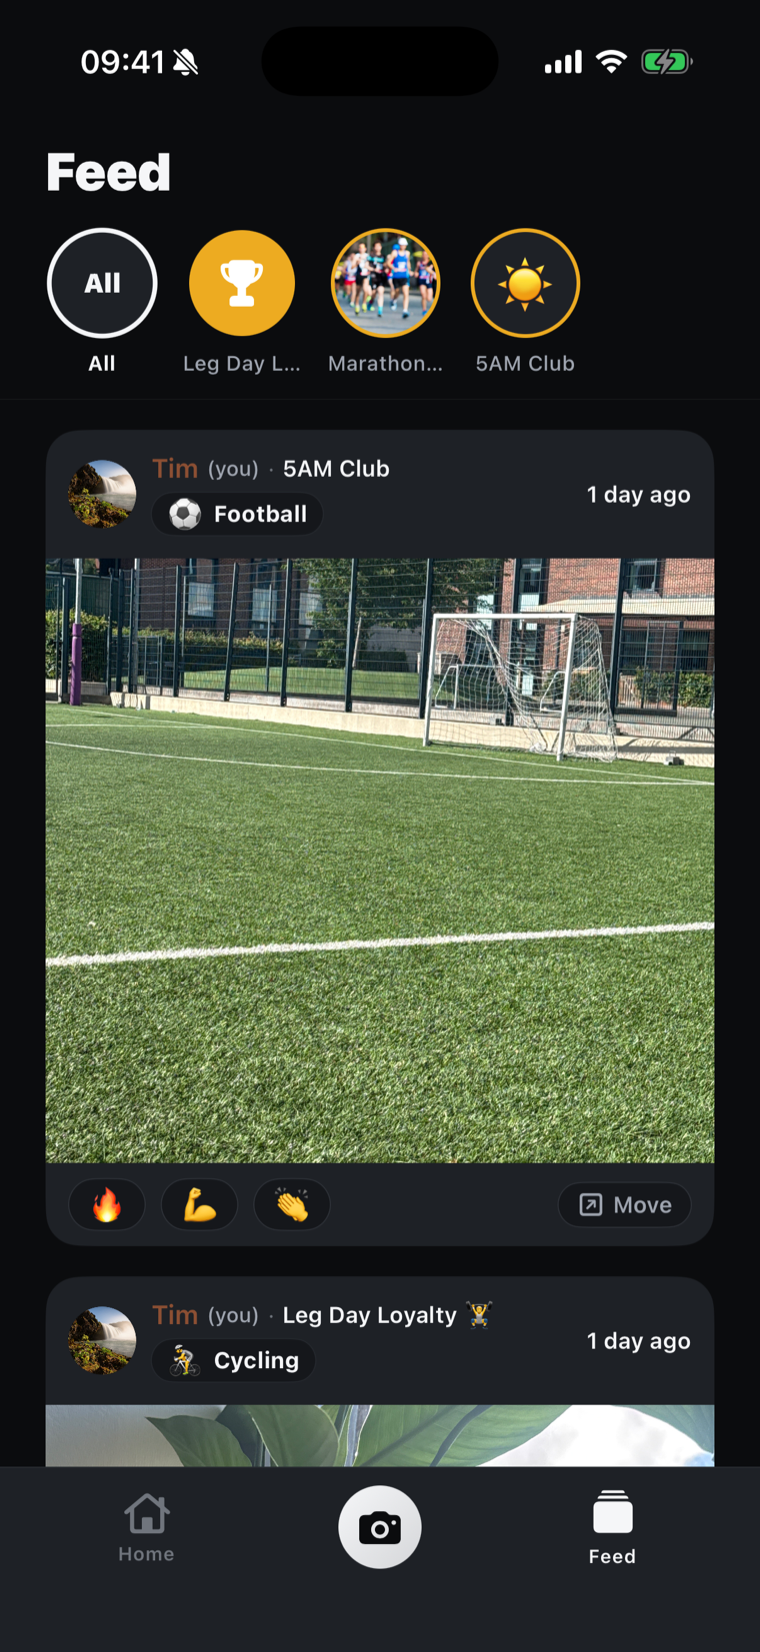
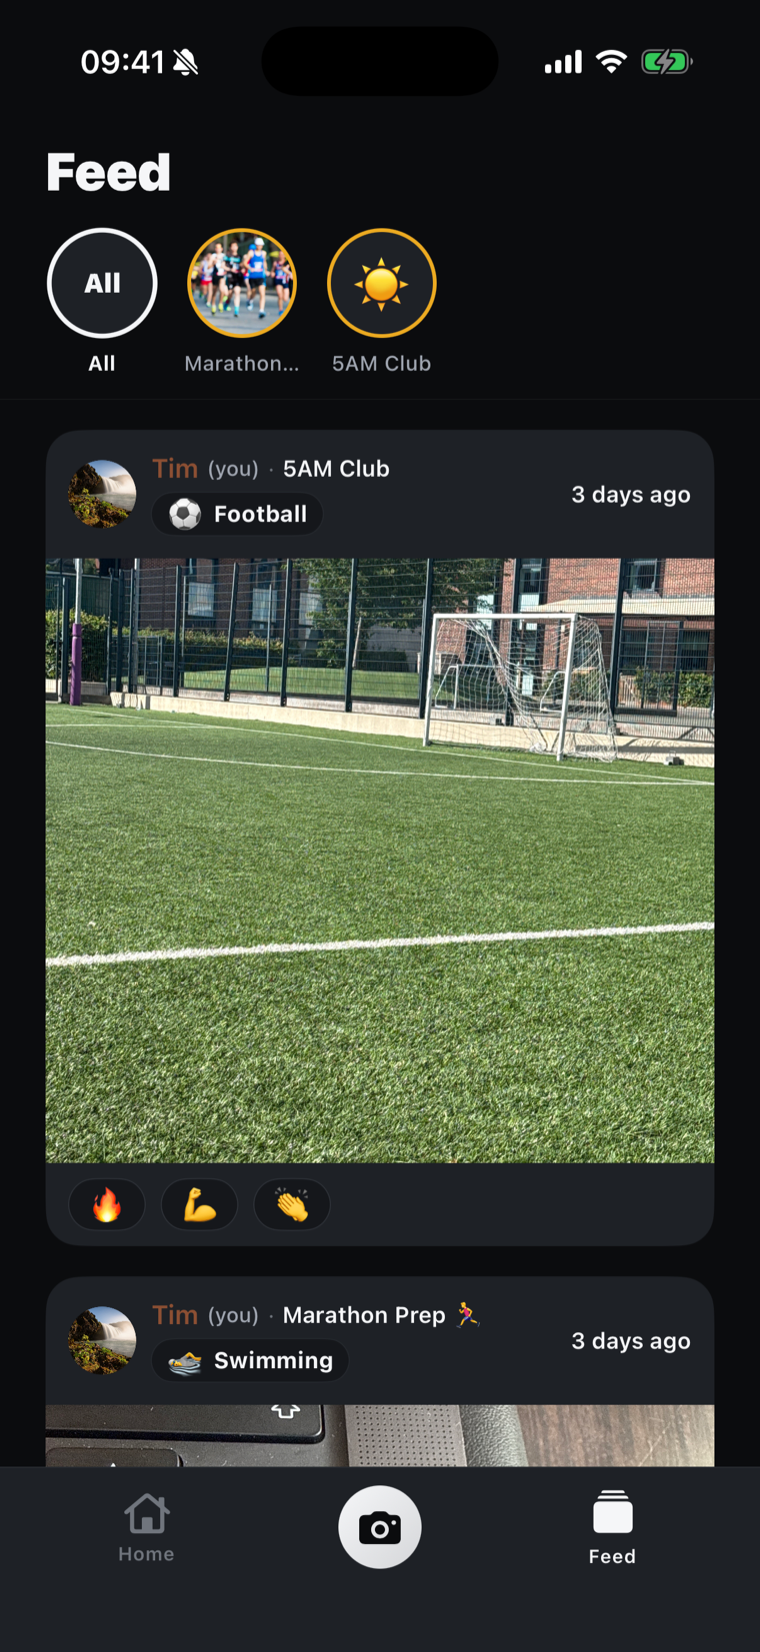
Fresh Feed screenshot in hero

diff --git a/index.html b/index.html
@@ -10,7 +10,7 @@
   <meta property="og:url" content="https://hustlrs.co">
   <link rel="icon" type="image/png" sizes="32x32" href="/img/favicon-32.png?v=2">
   <link rel="apple-touch-icon" href="/img/apple-touch-icon.png?v=2">
-  <link rel="stylesheet" href="style.css?v=25">
+  <link rel="stylesheet" href="style.css?v=26">
 </head>
 <body>
   <div class="page">
